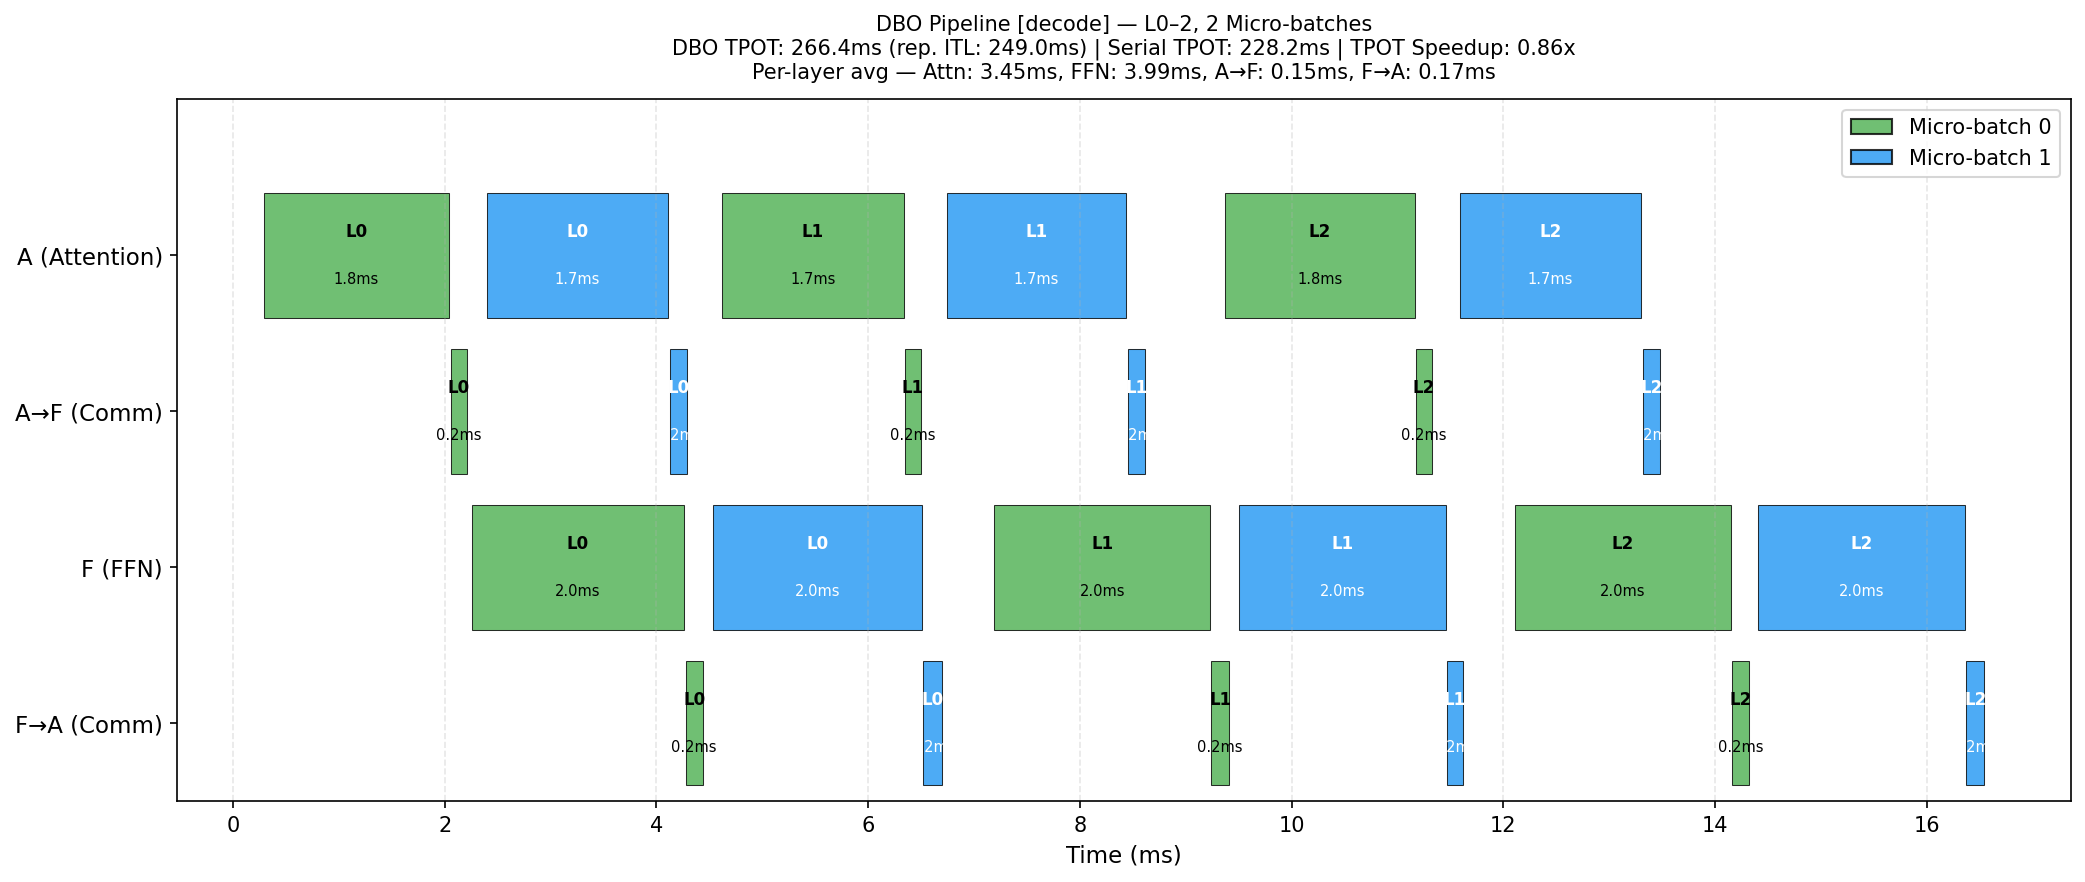
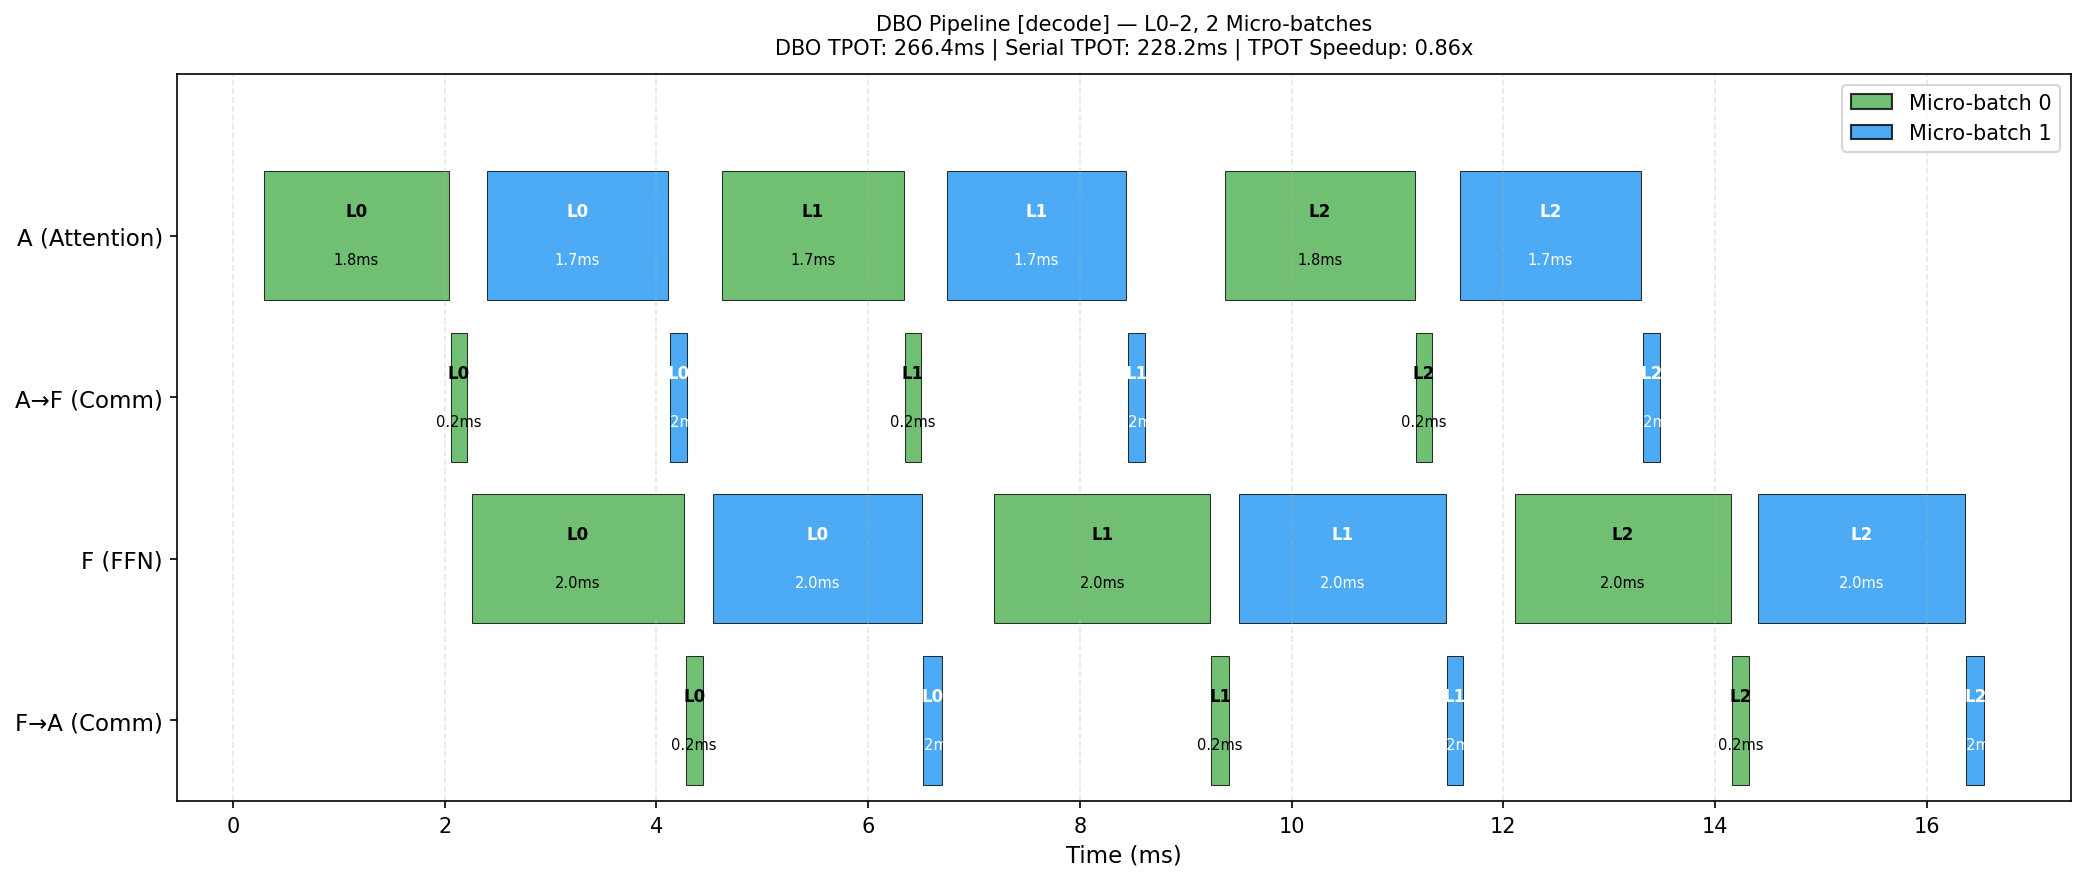
fix: simplify pipeline plots and add layer averages

diff --git a/scripts/gen_experiment_report.py b/scripts/gen_experiment_report.py
@@ -109,6 +109,48 @@ def _per_layer_table(attn: Optional[Dict], ffn: Optional[Dict]) -> str:
     return "\n".join(rows)
 
 
+def _layer_average_summary(attn: Optional[Dict], ffn: Optional[Dict]) -> str:
+    """Summarize mean per-layer timing across all layers."""
+    a_events = attn.get("events", []) if attn else []
+    f_events = ffn.get("events", []) if ffn else []
+    a_by = _group_by_layer(a_events)
+    f_by = _group_by_layer(f_events)
+    layers = sorted(set(a_by) | set(f_by))
+    if not layers:
+        return "_No per-layer events recorded._"
+
+    def mean_for_layer(layer: int, by_layer: Dict[int, Dict[str, List[float]]], event_type: str) -> float:
+        values = by_layer.get(layer, {}).get(event_type, [])
+        return statistics.mean(values) if values else 0.0
+
+    def avg_across_layers(selected_layers: List[int], by_layer: Dict[int, Dict[str, List[float]]], event_type: str) -> float:
+        if not selected_layers:
+            return 0.0
+        return statistics.mean(mean_for_layer(layer, by_layer, event_type) for layer in selected_layers)
+
+    scopes = [("All layers", layers)]
+    layers_without_l0 = [layer for layer in layers if layer != 0]
+    if layers_without_l0:
+        scopes.append(("Excl. L0", layers_without_l0))
+
+    rows = [
+        "| Scope | Layers | Attention avg/layer (ms) | A2F avg/layer (ms) | FFN avg/layer (ms) | F2A avg/layer (ms) | F2A recv-wait avg/layer (ms) |",
+        "|---|---:|---:|---:|---:|---:|---:|",
+    ]
+    for label, selected_layers in scopes:
+        rows.append(
+            f"| {label} | {len(selected_layers)} | "
+            f"{avg_across_layers(selected_layers, a_by, 'attn_compute'):.3f} | "
+            f"{avg_across_layers(selected_layers, a_by, 'send_transfer'):.3f} | "
+            f"{avg_across_layers(selected_layers, f_by, 'ffn_compute'):.3f} | "
+            f"{avg_across_layers(selected_layers, f_by, 'send_transfer'):.3f} | "
+            f"{avg_across_layers(selected_layers, a_by, 'recv_wait'):.3f} |"
+        )
+    rows.append("")
+    rows.append("_Each value first averages across micro-batches within a layer, then averages those layer means across the selected layer set._")
+    return "\n".join(rows)
+
+
 def _metadata_block(attn: Optional[Dict], ffn: Optional[Dict], args) -> str:
     md = attn or ffn or {}
     mode_str = args.mode or "unknown"
@@ -249,6 +291,9 @@ def main():
     cmp_block = _compare_vs_serial(attn, serial_attn, args.mode)
     if cmp_block:
         out.append(cmp_block)
+    out.append("## Layer averages summary\n")
+    out.append(_layer_average_summary(attn, ffn))
+    out.append("")
     out.append("## Per-layer breakdown\n")
     out.append(_per_layer_table(attn, ffn))
     out.append("")

diff --git a/scripts/visualize_dbo_pipeline.py b/scripts/visualize_dbo_pipeline.py
@@ -306,9 +306,7 @@ def plot_pipeline(lanes_data: dict, attn_data: dict, ffn_data: dict,
         speedup_name = "TTFT"
     elif mode == "decode":
         unit = "TPOT"
-        rep_itl = max(attn_data.get('representative_itl_ms') or attn_data.get('total_time_ms', 0),
-                      ffn_data.get('representative_itl_ms') or ffn_data.get('total_time_ms', 0))
-        dbo_label = f"DBO TPOT: {dbo_full:.1f}ms (rep. ITL: {rep_itl:.1f}ms)"
+        dbo_label = f"DBO TPOT: {dbo_full:.1f}ms"
         speedup_name = "TPOT"
     else:
         unit = "run"
@@ -339,9 +337,7 @@ def plot_pipeline(lanes_data: dict, attn_data: dict, ffn_data: dict,
     mode_tag = f" [{mode}]" if mode else ""
     line1 = f'DBO Pipeline{mode_tag} — L{start_layer}–{end_layer}{layer_note}, {num_mb} Micro-batches'
     line2 = f"{dbo_label} | {serial_label} | {speedup_str}"
-    line3 = f"Per-layer avg — Attn: {avg_attn:.2f}ms, FFN: {avg_ffn:.2f}ms, A→F: {a2f_avg:.2f}ms, F→A: {f2a_avg:.2f}ms"
-    
-    ax.set_title(f'{line1}\n{line2}\n{line3}', fontsize=10, pad=10)
+    ax.set_title(f'{line1}\n{line2}', fontsize=10, pad=10)
     
     # 图例
     legend_elements = [

diff --git a/results/decode-dbo-crosslayer/report_decode-dbo-crosslayer_b2_s128_t5.md b/results/decode-dbo-crosslayer/report_decode-dbo-crosslayer_b2_s128_t5.md
@@ -31,6 +31,15 @@
 - This run exact TPOT: **266.444 ms**
 - Δ: +38.206 ms   |   TPOT speedup: **0.857×**
 
+## Layer averages summary
+
+| Scope | Layers | Attention avg/layer (ms) | A2F avg/layer (ms) | FFN avg/layer (ms) | F2A avg/layer (ms) | F2A recv-wait avg/layer (ms) |
+|---|---:|---:|---:|---:|---:|---:|
+| All layers | 48 | 1.984 | 0.159 | 2.145 | 0.163 | 0.162 |
+| Excl. L0 | 47 | 1.990 | 0.160 | 2.149 | 0.163 | 0.165 |
+
+_Each value first averages across micro-batches within a layer, then averages those layer means across the selected layer set._
+
 ## Per-layer breakdown
 
 | Layer | Attention (ms) | A2F send (ms) | FFN (ms) | F2A send (ms) | F2A recv-wait (ms) |

diff --git a/results/decode-dbo/report_decode-dbo_b2_s128_t5.md b/results/decode-dbo/report_decode-dbo_b2_s128_t5.md
@@ -31,6 +31,15 @@
 - This run exact TPOT: **302.959 ms**
 - Δ: +74.721 ms   |   TPOT speedup: **0.753×**
 
+## Layer averages summary
+
+| Scope | Layers | Attention avg/layer (ms) | A2F avg/layer (ms) | FFN avg/layer (ms) | F2A avg/layer (ms) | F2A recv-wait avg/layer (ms) |
+|---|---:|---:|---:|---:|---:|---:|
+| All layers | 48 | 1.963 | 0.155 | 2.496 | 0.174 | 0.579 |
+| Excl. L0 | 47 | 1.968 | 0.155 | 2.500 | 0.174 | 0.583 |
+
+_Each value first averages across micro-batches within a layer, then averages those layer means across the selected layer set._
+
 ## Per-layer breakdown
 
 | Layer | Attention (ms) | A2F send (ms) | FFN (ms) | F2A send (ms) | F2A recv-wait (ms) |
